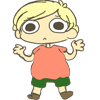
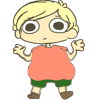
Added Food and incremented size

Changed region(s): [[0.24, 0.45, 0.78, 0.99], [0.3, 0.99, 0.39, 1.0], [0.54, 0.84, 0.57, 0.87]]

diff --git a/projects/healthy_lifestyle_js.js b/projects/healthy_lifestyle_js.js
@@ -26,8 +26,8 @@ imgSomeHealthy, imgLittleHealthy, imgMediumLittleHealthy, imgLittlestCalorical, 
 
 var caloricalFood = [
   "healthy_lifestyle_sources/hamburger.png", //not used
-  "healthy_lifestyle_sources/black.png",
-  "healthy_lifestyle_sources/black.png"
+  "healthy_lifestyle_sources/bacon.png",
+  "healthy_lifestyle_sources/bacon.png"
 ]
 var caloricalNum;
 
@@ -50,7 +50,8 @@ var someHealthyNum;
 var healthierFood = [
   "healthy_lifestyle_sources/white.png", //not used
   "healthy_lifestyle_sources/potato.png",
-  "healthy_lifestyle_sources/potato.png",
+  "healthy_lifestyle_sources/carrot.png",
+  "healthy_lifestyle_sources/coliflor.png",
   "healthy_lifestyle_sources/potato.png",
   "healthy_lifestyle_sources/potato.png"
 ]
@@ -65,25 +66,25 @@ var littleCaloricalNum;
 
 var mediumCaloricalFood = [
   "healthy_lifestyle_sources/red.png", //not used
-  "healthy_lifestyle_sources/red.png",
-  "healthy_lifestyle_sources/red.png",
-  "healthy_lifestyle_sources/red.png",
+  "healthy_lifestyle_sources/beff.png",
+  "healthy_lifestyle_sources/beff.png",
+  "healthy_lifestyle_sources/beff.png",
 ]
 var mediumCaloricalNum;
 
 var someCaloricalFood = [
   "healthy_lifestyle_sources/yellow.png", //not used
   "healthy_lifestyle_sources/hamburger.png",
-  "healthy_lifestyle_sources/hamburger.png",
+  "healthy_lifestyle_sources/fries.png",
   "healthy_lifestyle_sources/hamburger.png",
 ]
 var someCaloricalNum;
 
 var littleHealthyFood = [
   "healthy_lifestyle_sources/aqua.png",
-  "healthy_lifestyle_sources/aqua.png",
-  "healthy_lifestyle_sources/aqua.png",
-  "healthy_lifestyle_sources/aqua.png",
+  "healthy_lifestyle_sources/cabagge.png",
+  "healthy_lifestyle_sources/cabagge.png",
+  "healthy_lifestyle_sources/cabagge.png",
 ]
 var littleHealthyNum;
 
@@ -217,7 +218,7 @@ var calorical = {
  };
 function drawCalorical() {
   imgCalorical.src = caloricalFood[caloricalNum];
-  canvas.getContext("2d").drawImage(imgCalorical,0,0,100,100,calorical.x,calorical.y,40,40);
+  canvas.getContext("2d").drawImage(imgCalorical,0,0,100,100,calorical.x,calorical.y,45,45);
 }
 
 var healthier = {
@@ -227,7 +228,7 @@ var healthier = {
  };
 function drawHealthier() {
   imgHealthier.src = healthierFood[healthierNum];
-  canvas.getContext("2d").drawImage(imgHealthier,0,0,100,100,healthier.x,healthier.y,40,40);
+  canvas.getContext("2d").drawImage(imgHealthier,0,0,100,100,healthier.x,healthier.y,45,45);
 }
 
 var someCalorical = {
@@ -237,7 +238,7 @@ var someCalorical = {
 }
 function drawSomeCalorical() {
   imgSomeCalorical.src = someCaloricalFood[someCaloricalNum];
-  canvas.getContext("2d").drawImage(imgSomeCalorical,0,0,100,100,someCalorical.x,someCalorical.y,40,40);
+  canvas.getContext("2d").drawImage(imgSomeCalorical,0,0,100,100,someCalorical.x,someCalorical.y,45,45);
 }
 
 var mediumCalorical = {
@@ -247,7 +248,7 @@ var mediumCalorical = {
 }
 function drawMediumCalorical() {
   imgMediumCalorical.src = mediumCaloricalFood[mediumCaloricalNum];
-  canvas.getContext("2d").drawImage(imgMediumCalorical,0,0,100,100,mediumCalorical.x,mediumCalorical.y,40,40);
+  canvas.getContext("2d").drawImage(imgMediumCalorical,0,0,100,100,mediumCalorical.x,mediumCalorical.y,45,45);
 }
 
 var littleCalorical = {
@@ -257,7 +258,7 @@ var littleCalorical = {
 }
 function drawLittleCalorical() {
   imgLittleCalorical.src = littleCaloricalFood[littleCaloricalNum];
-  canvas.getContext("2d").drawImage(imgLittleCalorical,0,0,100,100,littleCalorical.x,littleCalorical.y,40,40);
+  canvas.getContext("2d").drawImage(imgLittleCalorical,0,0,100,100,littleCalorical.x,littleCalorical.y,45,45);
 }
 
 var mostHealthier = {
@@ -267,7 +268,7 @@ var mostHealthier = {
  };
 function drawMostHealthier() {
   imgMostHealthier.src = mostHealthierFood[mostHealthierNum];
-  canvas.getContext("2d").drawImage(imgMostHealthier,0,0,100,100,mostHealthier.x,mostHealthier.y,40,40);
+  canvas.getContext("2d").drawImage(imgMostHealthier,0,0,100,100,mostHealthier.x,mostHealthier.y,45,45);
 }
 
 var someHealthy = {
@@ -277,7 +278,7 @@ var someHealthy = {
  }
 function drawSomeHealthy() {
   imgSomeHealthy.src = someHealthyFood[someHealthyNum];
-  canvas.getContext("2d").drawImage(imgSomeHealthy,0,0,100,100,someHealthy.x,someHealthy.y,40,40);
+  canvas.getContext("2d").drawImage(imgSomeHealthy,0,0,100,100,someHealthy.x,someHealthy.y,45,45);
 }
 
 var littleHealthy = {
@@ -286,7 +287,7 @@ var littleHealthy = {
 }
 function drawLittleHealthy() {
   imgLittleHealthy.src = littleHealthyFood[littleHealthyNum];
-  canvas.getContext("2d").drawImage(imgLittleHealthy,0,0,100,100,littleHealthy.x,littleHealthy.y,40,40);
+  canvas.getContext("2d").drawImage(imgLittleHealthy,0,0,100,100,littleHealthy.x,littleHealthy.y,45,45);
 }
 
 var littlestCalorical = {
@@ -295,7 +296,7 @@ var littlestCalorical = {
 }
 function drawLittlestCalorical() {
   imgLittlestCalorical.src = littlestCaloricalFood[littlestCaloricalNum];
-  canvas.getContext("2d").drawImage(imgLittlestCalorical,0,0,100,100,littlestCalorical.x,littlestCalorical.y,40,40);
+  canvas.getContext("2d").drawImage(imgLittlestCalorical,0,0,100,100,littlestCalorical.x,littlestCalorical.y,45,45);
 }
 
 var mediumLittleCalorical = {
@@ -304,7 +305,7 @@ var mediumLittleCalorical = {
 }
 function drawMediumLittleCalorical() {
   imgMediumLittleCalorical.src = mediumLittleCaloricalFood[mediumLittleCaloricalNum];
-  canvas.getContext("2d").drawImage(imgMediumLittleCalorical,0,0,100,100,mediumLittleCalorical.x,mediumLittleCalorical.y,40,40);
+  canvas.getContext("2d").drawImage(imgMediumLittleCalorical,0,0,100,100,mediumLittleCalorical.x,mediumLittleCalorical.y,45,45);
 }
 
 function goDown() {
@@ -324,9 +325,9 @@ function goDown() {
     mostHealthierNum = Math.floor(Math.random() * 3) + 1;
   }
   if (mostHealthier.x < bill.x + 100 &&
-   mostHealthier.x + 40 > bill.x &&
+   mostHealthier.x + 45 > bill.x &&
    mostHealthier.y < bill.y + 100 &&
-   40 + mostHealthier.y > bill.y) {
+   45 + mostHealthier.y > bill.y) {
      mostHealthier.y = Math.floor(Math.random() * -100) + -1000;
      mostHealthier.x = Math.floor(Math.random() * 360) + 1;
      inicialFeedNumber -= 3;
@@ -334,7 +335,7 @@ function goDown() {
      mostHealthierNum = Math.floor(Math.random() * 3)+ 1;
   }
 
-  //Healthier -2 (Potatoe, Tomatoe, Strawberry, Broccoli)
+  //Healthier -2 (Potatoe, Tomatoe, Strawberry, Broccoli, Carrot)
   if (inicialFeedNumber < 50 && inicialFeedNumber > 5) {
     healthier.y += 2;
   }
@@ -347,18 +348,18 @@ function goDown() {
   if (healthier.y > 600) {
     healthier.y = Math.floor(Math.random() * -100) + -1000;
     healthier.x = Math.floor(Math.random() * 360) + 1;
-    healthierNum = Math.floor(Math.random() * 4) + 1;
+    healthierNum = Math.floor(Math.random() * 5) + 1;
   }
   if (healthier.x < bill.x + 100 &&
-   healthier.x + 40 > bill.x &&
+   healthier.x + 45 > bill.x &&
    healthier.y < bill.y + 100 &&
-   40 + healthier.y > bill.y) {
+   45 + healthier.y > bill.y) {
 
      healthier.y = Math.floor(Math.random() * -100) + -1000;
      healthier.x = Math.floor(Math.random() * 360) + 1;
      inicialFeedNumber -= 2;
      document.getElementById('value_BIM').innerHTML = inicialFeedNumber.toFixed(2);
-     healthierNum = Math.floor(Math.random() * 4) + 1;
+     healthierNum = Math.floor(Math.random() * 5) + 1;
 }
 // Some of it healthy -1 (Orange, Kiwi, 100% Fruit juice)
   if (inicialFeedNumber < 50 && inicialFeedNumber > 5) {
@@ -376,9 +377,9 @@ function goDown() {
     someHealthyNum = Math.floor(Math.random() * 3) + 1;
   }
   if (someHealthy.x < bill.x + 100 &&
-   someHealthy.x + 40 > bill.x &&
+   someHealthy.x + 45 > bill.x &&
    someHealthy.y < bill.y + 100 &&
-   40 + someHealthy.y > bill.y) {
+   45 + someHealthy.y > bill.y) {
      someHealthy.y = Math.floor(Math.random() * -100) + -1000;
      someHealthy.x = Math.floor(Math.random() * 360) + 1;
      inicialFeedNumber -= 1;
@@ -402,9 +403,9 @@ if (littleHealthy.y > 600) {
   littleHealthyNum = Math.floor(Math.random() * 3) + 1;
 }
 if (littleHealthy.x < bill.x + 100 &&
- littleHealthy.x + 40 > bill.x &&
+ littleHealthy.x + 45 > bill.x &&
  littleHealthy.y < bill.y + 100 &&
- 40 + littleHealthy.y > bill.y) {
+ 45 + littleHealthy.y > bill.y) {
    littleHealthy.y = Math.floor(Math.random() * -100) + -1000;
    littleHealthy.x = Math.floor(Math.random() * 360) + 1;
    inicialFeedNumber -= (0.5 * 10) / 10;
@@ -428,9 +429,9 @@ if (littleHealthy.x < bill.x + 100 &&
     mediumLittleCaloricalNum = Math.floor(Math.random() * 2) + 1;
   }
   if (mediumLittleCalorical.x < bill.x + 100 &&
-   mediumLittleCalorical.x + 40 > bill.x &&
+   mediumLittleCalorical.x + 45 > bill.x &&
    mediumLittleCalorical.y < bill.y + 100 &&
-   40 + mediumLittleCalorical.y > bill.y) {
+   45 + mediumLittleCalorical.y > bill.y) {
      mediumLittleCalorical.y = Math.floor(Math.random() * -100) + -1200;
      mediumLittleCalorical.x = Math.floor(Math.random() * 360) + 1;
      inicialFeedNumber += (0.2 * 10) / 10;
@@ -453,9 +454,9 @@ if (littleHealthy.x < bill.x + 100 &&
     littleCaloricalNum = Math.floor(Math.random() * 2) + 1;
   }
   if (littleCalorical.x < bill.x + 100 &&
-   littleCalorical.x + 40 > bill.x &&
+   littleCalorical.x + 45 > bill.x &&
    littleCalorical.y < bill.y + 100 &&
-   40 + littleCalorical.y > bill.y) {
+   45 + littleCalorical.y > bill.y) {
      littleCalorical.y = Math.floor(Math.random() * -100) + -1000;
      littleCalorical.x = Math.floor(Math.random() * 360) + 1;
      inicialFeedNumber += (1.5 * 10) / 10;
@@ -479,9 +480,9 @@ if (littleHealthy.x < bill.x + 100 &&
     mediumCaloricalNum = Math.floor(Math.random() * 2) + 1;
   }
   if (mediumCalorical.x < bill.x + 100 &&
-   mediumCalorical.x + 40 > bill.x &&
+   mediumCalorical.x + 45 > bill.x &&
    mediumCalorical.y < bill.y + 100 &&
-   40 + mediumCalorical.y > bill.y) {
+   45 + mediumCalorical.y > bill.y) {
      mediumCalorical.y = Math.floor(Math.random() * -100) + -1000;;
      mediumCalorical.x = Math.floor(Math.random() * 360) + 1;
      inicialFeedNumber += 2;
@@ -505,9 +506,9 @@ if (littleHealthy.x < bill.x + 100 &&
     someCaloricalNum = Math.floor(Math.random() * 3) + 1;
   }
   if (someCalorical.x < bill.x + 100 &&
-   someCalorical.x + 40 > bill.x &&
+   someCalorical.x + 45 > bill.x &&
    someCalorical.y < bill.y + 100 &&
-   40 + someCalorical.y > bill.y) {
+   45 + someCalorical.y > bill.y) {
      someCalorical.y = Math.floor(Math.random() * -100) + -1000;;
      someCalorical.x = Math.floor(Math.random() * 360) + 1;
      inicialFeedNumber += 4;
@@ -531,9 +532,9 @@ if (littleHealthy.x < bill.x + 100 &&
     caloricalNum = Math.floor(Math.random() * 2) + 1;
   }
   if (calorical.x < bill.x + 100 &&
-   calorical.x + 40 > bill.x &&
+   calorical.x + 45 > bill.x &&
    calorical.y < bill.y + 100 &&
-   40 + calorical.y > bill.y) {
+   45 + calorical.y > bill.y) {
      calorical.y = Math.floor(Math.random() * -100) + -1000;;
      calorical.x = Math.floor(Math.random() * 360) + 1;
      inicialFeedNumber += 5;
@@ -556,9 +557,9 @@ if (mostCalorical.y > 600) {
   mostCalorical.x = Math.floor(Math.random() * 360) + 1;
 }
 if (mostCalorical.x < bill.x + 100 &&
- mostCalorical.x + 40 > bill.x &&
+ mostCalorical.x + 50 > bill.x &&
  mostCalorical.y < bill.y + 100 &&
- 40 + mostCalorical.y > bill.y) {
+ 50 + mostCalorical.y > bill.y) {
    mostCalorical.y = -100;
    mostCalorical.x = Math.floor(Math.random() * 360) + 1;
    inicialFeedNumber += 6;
